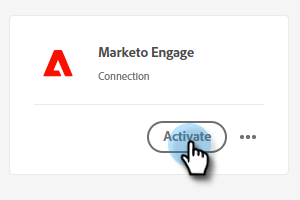
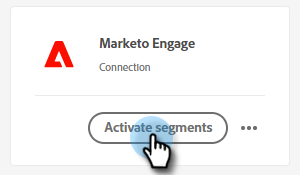
verification

diff --git a/help/marketo/product-docs/core-marketo-concepts/smart-lists-and-static-lists/static-lists/push-clone.md b/help/marketo/product-docs/core-marketo-concepts/smart-lists-and-static-lists/static-lists/push-clone.md
@@ -1,0 +1,139 @@
+---
+description: Push Clone - Marketo Docs - Product Documentation
+title: Push Clone
+hide: yes
+hidefromtoc: yes
+---
+# Push Clone {#push-clone}
+
+This feature allows you to push segments located in your Adobe Experience Platform over to Marketo in the form of a static list.
+
+>[!PREREQUISITES]
+>
+>* [Create an API User](/help/marketo/product-docs/administration/users-and-roles/create-an-api-only-user.md) in Marketo.
+>* Then, go to **Admin** > **Launchpoint**. Find the name of the role you just created and click **View Details**. Copy and save the info in **Client ID** and **Client Secret**, as you'll need it for this feature.
+
+1. Log in to [Adobe Experience Platform](https://experience.adobe.com/).
+
+   ![](assets/push-an-adobe-experience-platform-segment-to-a-marketo-static-list-1.png)
+
+1. Click the grid icon and select **Experience Platform**.
+
+   ![](assets/push-an-adobe-experience-platform-segment-to-a-marketo-static-list-2.png)
+
+1. In the left nav, click **Destinations**.
+
+   ![](assets/push-an-adobe-experience-platform-segment-to-a-marketo-static-list-3.png)
+
+1. Click **Catalog**.
+
+   ![](assets/push-an-adobe-experience-platform-segment-to-a-marketo-static-list-4.png)
+
+1. Find the Marketo Engage tile and click **Activate Segments**.
+
+   ![](assets/push-an-adobe-experience-platform-segment-to-a-marketo-static-list-5.png)
+
+1. Click **Configure New Destination**.
+
+
+1. Under Account Type, choose Existing account or **New Account** radio button (in this example, we're choosing **New Account**). Enter your Marketo credentials.
+
+   ![](assets/push-an-adobe-experience-platform-segment-to-a-marketo-static-list-6.png)
+
+   >[!NOTE]
+   >
+   >You can find your Munchkin ID by going to **Admin** > **Munchkin** (it's also part of your Marketo URL once logged in). Client ID/Secret you should have from following the prerequisites at the top of this article.
+
+1. Under Person Creation, choose "Match Existing People Only" or  "Match Existing People and Create Missing People in Marketo." In this option we're choosing the latter.
+
+PICC
+
+1. "Connected" should appear below your credentials. Click **Next** in the upper right-hand corner.
+
+   ![](assets/push-an-adobe-experience-platform-segment-to-a-marketo-static-list-7.png)
+
+1. Enter a **Name** and an _optional_ Description. Click **Create Destination**.
+
+   >[!NOTE]
+   >
+   >Choosing something from Marketing Actions is also optional. Marketo doesn't leverage that information at this time, but likely will soon.
+
+   ![](assets/push-an-adobe-experience-platform-segment-to-a-marketo-static-list-8.png)
+
+1. Click **Next**.
+
+   ![](assets/push-an-adobe-experience-platform-segment-to-a-marketo-static-list-9.png)
+
+1. Choose your desired segment and click **Next**.
+
+   ![](assets/push-an-adobe-experience-platform-segment-to-a-marketo-static-list-10.png)
+
+   >[!NOTE]
+   >
+   >If you choose multiple segments here, you'll have to map each segment to a specified static list in the Segment Schedule tab.
+
+1. Click **Add New Mapping**.
+
+   ![](assets/push-an-adobe-experience-platform-segment-to-a-marketo-static-list-11.png)
+
+1. Click the cursor icon.
+
+   ![](assets/push-an-adobe-experience-platform-segment-to-a-marketo-static-list-12.png)
+
+1. Choose either the **Select Attributes** or **Select Identity Namespace** radio button (in this example, we're choosing Attributes).
+
+   ![](assets/push-an-adobe-experience-platform-segment-to-a-marketo-static-list-13.png)
+
+   >[!NOTE]
+   >
+   >If you chose **Select Identity Namespace**, after making your selection, skip to Step 15.
+
+1. Choose the relevant field that contains the email address that identifies the user. Click **Select** when done.
+
+   ![](assets/push-an-adobe-experience-platform-segment-to-a-marketo-static-list-14.png)
+
+   ![](assets/push-an-adobe-experience-platform-segment-to-a-marketo-static-list-15.png)
+
+   >[!NOTE]
+   >
+   >The example we've chosen may look much different than your selection.
+
+1. Click the mapping icon.
+
+   ![](assets/push-an-adobe-experience-platform-segment-to-a-marketo-static-list-16.png)
+
+1. Choose **Select Identity Namespace**.
+
+   ![](assets/push-an-adobe-experience-platform-segment-to-a-marketo-static-list-17.png)
+
+   >[!IMPORTANT]
+   >
+   >Mapping attributes is optional. Mapping Email and/or ECID from the **Identity Namespace** tab is the most important thing to do to ensure the person is matched in Marketo. Mapping Email will ensure the highest match rate.
+
+1. Choose between ECID or Email. In this example we're choosing **Email**.
+
+   ![](assets/push-an-adobe-experience-platform-segment-to-a-marketo-static-list-18.png)
+
+1. Click **Next**.
+
+   ![](assets/push-an-adobe-experience-platform-segment-to-a-marketo-static-list-19.png)
+
+   >[!NOTE]
+   >
+   >Identities are used to look for matches in Marketo. If a match is found, the person is added to the static List. If a match is not found, those people are dropped (i.e., not created in Marketo).
+
+1. _In Marketo_, create a static list, or find and select one you've already created. Copy the mapping ID from the end of the URL.
+
+   ![](assets/push-an-adobe-experience-platform-segment-to-a-marketo-static-list-20.png)
+
+   >[!NOTE]
+   >
+   >For best results, make sure the list you reference in Marketo is empty.
+
+1. Back in Adobe Experience Platform, enter the ID you just copied. Choose your Start Date. People will continuously sync until the chosen end date. For an indefinite sync, leave the end date blank. Click **Next** when done.
+
+   ![](assets/push-an-adobe-experience-platform-segment-to-a-marketo-static-list-21.png)
+
+1. Confirm your changes and click **Finish**.
+
+   ![](assets/push-an-adobe-experience-platform-segment-to-a-marketo-static-list-22.png)

diff --git a/help/marketo/product-docs/administration/users-and-roles/email-verification.md b/help/marketo/product-docs/administration/users-and-roles/email-verification.md
@@ -7,20 +7,25 @@ exl-id: 976e46a7-8c85-45ed-86c1-0c5cdb2d5c3e
 ---
 # Email Verification {#email-verification}
 
-I think you said we will just make a new page that covers email verification for users
+Adobe Marketo Engage subscriptions require all non-API only users to verify their email address. Single Sign-on (SSO) users will automatically have their email verified when their subscription is enabled with Email Verification.
 
-User Invite
-When an admin invites a user, no change to the UI or the experience for the user
-When the user clicks the invite link, their email is automatically verified
-Users with SSO are automatically verified
+**User Invite**
 
-User Account
-Screen shows email address as verified
-When email address is updated, the UI reflects that the email for the account is unverified and email is sent (see attached email)
+When an Admin invites a user, that user is automatically verified once they click the invite link. Users with SSO are automatically verified.
 
-Admin – Users and Roles page
-New column showing the Verification status of a user
-New button to trigger the email verification for the user again
+**Changing an Email Address**
 
-MyMarketo
-When user with unverified email logs in, they should see a banner on the My Marketo page (ONLY).
+When a user's email address is changed, it becomes unverified. An email will be sent to them allowing them to re-verify. Admins can manually resend that email by clicking **Resend Verification**.
+
+   ![](assets/email-verification-1.png)
+
+   ![](assets/email-verification-2.png)
+
+**Users and Roles**
+
+In Admin > Users & Roles, the Email Status column shows the verification status of every user.
+
+   ![](assets/email-verification-3.png)
+
+To verify an unverified user, simply select their record and click the **Verify Email** button.
+
